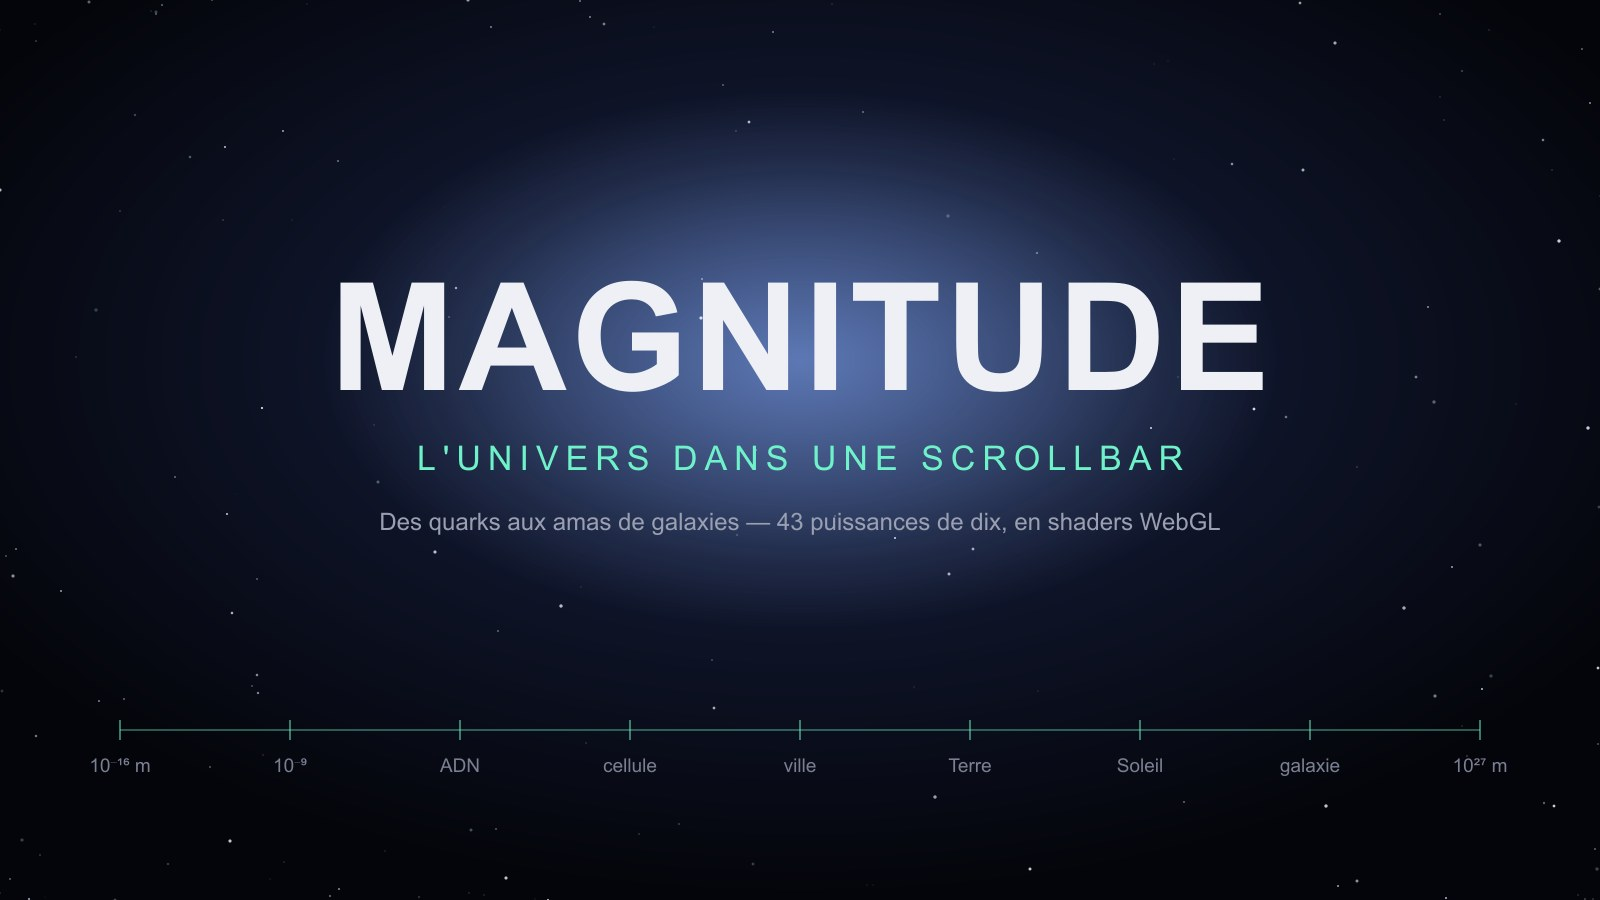
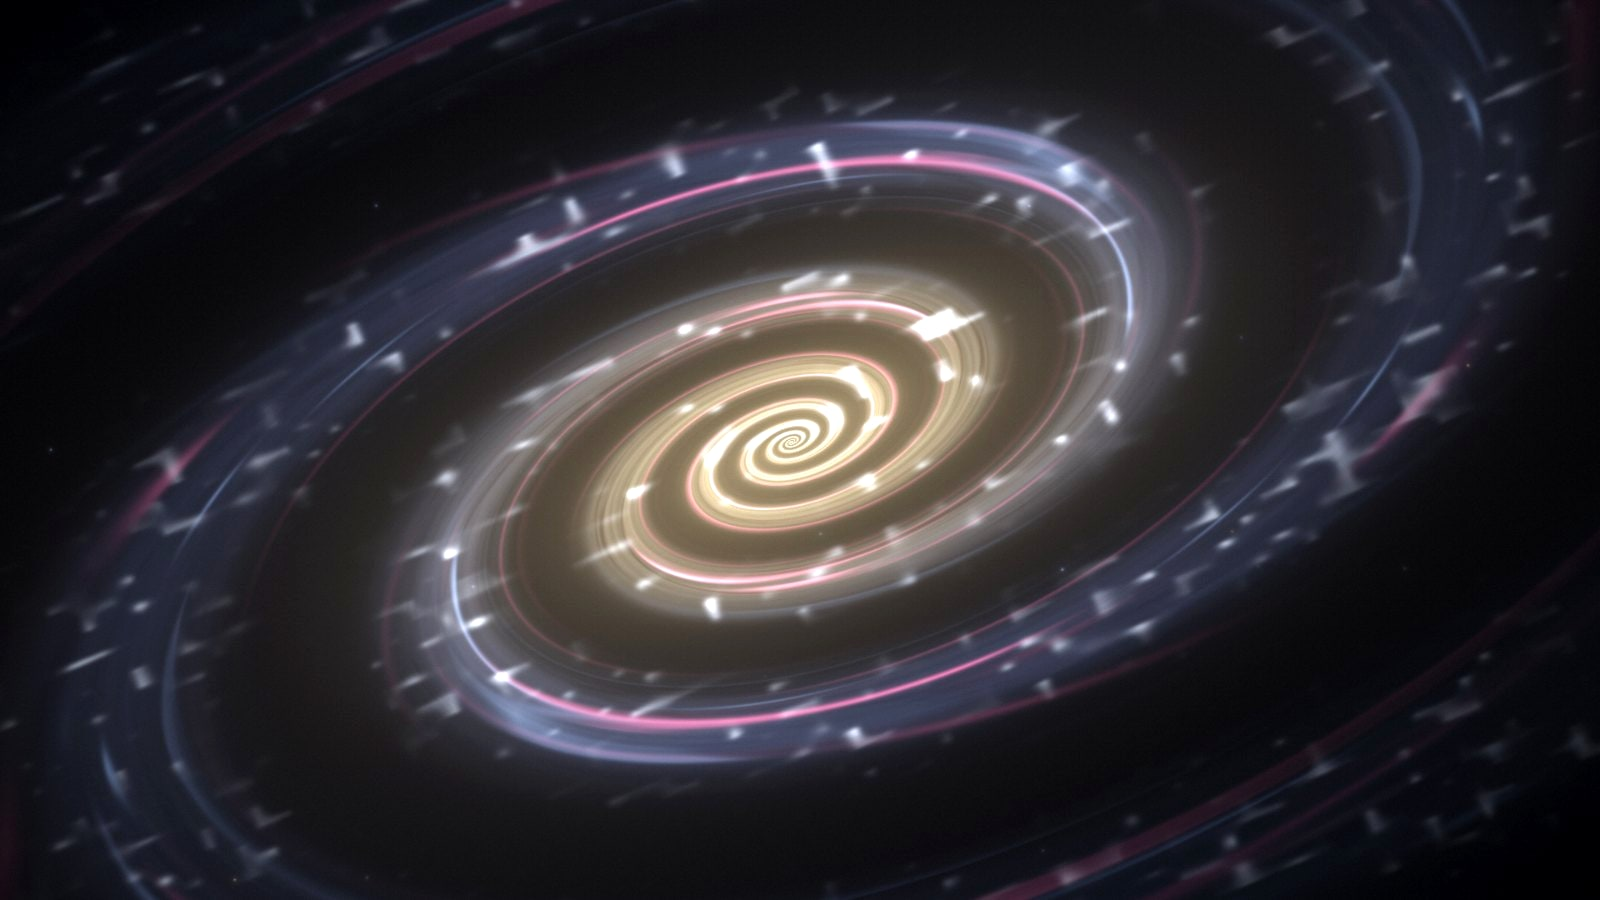
Magnitude : cover et galerie en vrais shaders WebGL capturés
Remplace le poster généré par une capture réelle de la galaxie spirale
(shader du site live) en cover, et ajoute une galerie de 3 scènes shader
(planète, système solaire, milieu interstellaire) captées via window.__renderer.

diff --git a/src/data/projects.js b/src/data/projects.js
@@ -315,6 +315,10 @@ export const projects = [
       ],
     },
     cover: 'images/magnitude/cover.jpg',
-    gallery: [],
+    gallery: [
+      'images/magnitude/planet.jpg',
+      'images/magnitude/solar.jpg',
+      'images/magnitude/deep.jpg',
+    ],
   },
 ];
